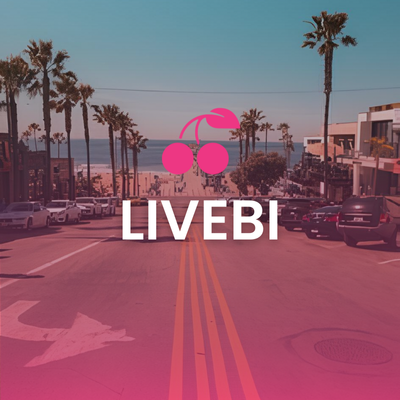
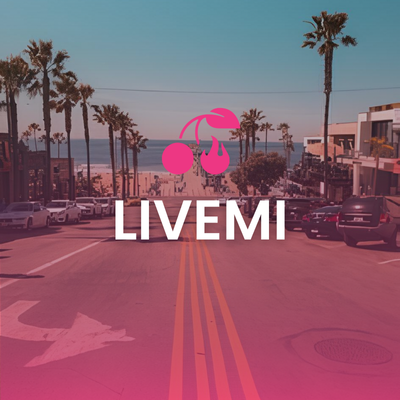
06/02/2025 up

diff --git a/index.html b/index.html
@@ -2,8 +2,8 @@
 <html lang="pt-BR">
 
 <head>
-  <title>Livebi Corporation | Onde o impossível é questão de detalhe!</title>
-  <link rel="icon" href="./img/logo-me.png" type="image/x-icon">
+  <title>Livemi | Onde o impossível é questão de detalhe!</title>
+  <link rel="icon" href="./img/livemiLogo.png" type="image/x-icon">
   <meta charset="UTF-8">
   <meta http-equiv="X-UA-Compatible" content="IE=edge">
   <meta name="viewport" content="width=device-width, initial-scale=1.0">
@@ -20,20 +20,26 @@
       <header>
         <div class="container">
           <div class="logo" id="link-home">
-            <img src="./img/logo-me.png" alt="Logo">
-            <h3>Livebi</h3>
+            <img src="./img/livemiLogo.png" alt="Logo">
+            <h3>Livemi</h3>
           </div>
 
           <div class="links">
             <ul>
-              <li><a href="#" id="link-investor">Seja um Investidor</a></li>
+              <!-- <li><a href="#" id="link-investor">Seja um Investidor</a></li> -->
               <li><a href="#" id="link-about">Sobre</a></li>
               <li><a href="#" id="link-contact">Contato</a></li>
             </ul>
           </div>
 
           <div class="header-menu">
-            <i class="fab fa-instagram"></i>
+            <a 
+              href="https://www.instagram.com/livemibrasil?igsh=MTY3eDdibW1obDhkcg==" 
+              target="_blank"
+              style="color: inherit; text-decoration: none;"
+            >
+              <i class="fab fa-instagram"></i>
+            </a>
             <div class="overlay"></div>
             <div class="hamburger-menu">
               <div class="bar"></div>
@@ -54,7 +60,7 @@
 
             <div class="card next--card">
               <div class="card__image">
-                <img src="img/img2.png" alt="">
+                <img src="img/img5.png" alt="">
               </div>
             </div>
 
@@ -83,21 +89,21 @@
         <div class="infoList">
           <div class="info__wrapper">
             <div class="info current--info">
-              <h1 class="text name">Livebi Home</h1>
+              <h1 class="text name">Livemi</h1>
               <div></div>
-              <p class="text description">Encontre a moradia ideal e conexões reais – divida custos, alugue espaços e viva novas experiências com segurança e praticidade.</p>
+              <p class="text description">Dê match com quem combina com você – seja para um encontro especial, uma amizade ou apenas se jogar na diversão!</p>
             </div>
 
             <div class="info next--info">
-              <h1 class="text name">Livebi Flame</h1>
+              <h1 class="text name">Algorithm</h1>
               <div></div>
-              <p class="text description">Dê match com quem combina com você – seja para um encontro especial, uma amizade ou apenas se jogar na diversão!</p>
+              <p class="text description">Algoritmos complexos para ajudar a você encontrar a parceira ou parceiro ideal, seja para um date ou fazer novas amizades!</p>
             </div>
 
             <div class="info previous--info">
               <h1 class="text name">Lyvia AI</h1>
               <div></div>
-              <p class="text description">Uma inteligência artificial avançada, criada para potencializar interações, resolver problemas e transformar ideias em realidade.</p>
+              <p class="text description">Uma inteligência artificial avançada integrada ao sistema da Livemi, para potencializar interações, resolver problemas e transformar ideias em realidade.</p>
             </div>
           </div>
         </div>
@@ -122,13 +128,13 @@
         </div>
       </div>
 
-      <div class="pages-nav" id="investor-page" style="display: none;">
+      <!-- <div class="pages-nav" id="investor-page" style="display: none;">
         <div class="main-content-nav">
-          <div class="title-nav">INVESTIR NA LIVEBI?</div>
+          <div class="title-nav">INVESTIR NA LIVEMI?</div>
           <div class="subtitle-nav">POR QUE?</div>
           <div class="description-nav">
             Apresentamos a você o futuro da interação social digital com os apps <br>
-            Livebi Flame, Livebi Home e Lyvia AI. Cada um desses <br>
+            Livemi e Lyvia AI. Cada um desses <br>
             aplicativos foi desenvolvido com o propósito de conectar<br>
             pessoas, compartilhar experiências e tornar <br>
             a vida mais colaborativa e divertida. <br>
@@ -136,7 +142,7 @@
 
           <div class="container-investor">
             <div class="content-investor">
-              <h1 class="title-investor">LIVEBI: Transformando o Futuro com Inovação</h1>
+              <h1 class="title-investor">LIVEMI: Transformando o Futuro com Inovação</h1>
 
               <div class="subtitle-investor">Se você, investidor, ao ler "Seja um Investidor", sentiu um certo receio,
                 como é natural diante de qualquer oportunidade de investimento, até o final deste texto, eu garanto que
@@ -144,18 +150,18 @@
                 investir cada átomo do meu ser no sucesso dessa startup.</div>
 
               <p class="description-investor">
-                Apresento a vocês a <strong>LIVEBI</strong>, uma startup com a missão de desenvolver soluções
+                Apresento a vocês a <strong>LIVEMI</strong>, uma startup com a missão de desenvolver soluções
                 tecnológicas inovadoras que impactem positivamente a sociedade. Nosso foco é transformar áreas pouco
                 exploradas ou trazer melhorias significativas a soluções que já existem, mas que ainda deixam a desejar.
                 Agora, vamos dar um passo à frente e apresentar os primeiros frutos dessa jornada: os aplicativos móveis
-                <strong>LIVEBI HOME</strong>, <strong>LIVEBI FLAME</strong> e <strong>LYVIA AI</strong> (em breve).
+                <strong>LIVEMI</strong> e <strong>LYVIA AI</strong> (em breve).
               </p>
 
               <h1 class="title-investor">O que nos torna diferentes?</h1>
 
-              <div class="subtitle-investor">O que torna a <strong>LIVEBI</strong> uma oportunidade única de
+              <div class="subtitle-investor">O que torna a <strong>LIVEMI</strong> uma oportunidade única de
                 investimento? Por que estamos focando neste segmento? E, mais importante, por que você deve investir na
-                <strong>LIVEBI</strong>?
+                <strong>LIVEMI</strong>?
               </div>
 
               <p class="description-investor">
@@ -174,20 +180,12 @@
               </p>
 
               <p class="description-investor">
-                <strong>LIVEBI HOME</strong> é um produto único no Brasil e na América do Sul, sem concorrentes diretos
-                no mercado. Estamos não apenas criando um aplicativo, mas estabelecendo uma nova categoria. Isso nos
-                coloca na posição de pioneiros, com um enorme potencial de mercado. Nossa estratégia envolve não apenas
-                o lançamento, mas também a patenteação da tecnologia e do modelo de negócios, o que nos garante
-                exclusividade e vantagem competitiva no futuro próximo.
-              </p>
-
-              <p class="description-investor">
-                <strong>LIVEBI FLAME</strong>, apesar de ter concorrentes, está se destacando por implementar uma
+                <strong>LIVEMI</strong>, apesar de ter concorrentes, está se destacando por implementar uma
                 tecnologia emergente no mercado: Ultra-Wideband (UWB). Trata-se de uma tecnologia de comunicação sem fio
                 que transmite dados com alta precisão e em distâncias curtas, algo revolucionário para o mercado de
                 smartphones e ainda pouco explorado. Além disso, estamos agregando funcionalidades inovadoras como
-                stories, pesquisa de perfil e integração com inteligência artificial, proporcionando uma experiência
-                única ao usuário.
+                macth por grupo(que é um dos nossos principais diferênciais), pesquisa de perfil e integração com inteligência artificial, 
+                proporcionando uma experiência única ao usuário.
               </p>
 
               <p class="description-investor">
@@ -207,23 +205,23 @@
                 tornando realidade.
               </p>
 
-              <h1 class="title-investor">Por que investir na <strong>LIVEBI</strong>?</h1>
+              <h1 class="title-investor">Por que investir na <strong>LIVEMI</strong>?</h1>
 
               <p class="description-investor">
                 Agora, respondendo diretamente à sua pergunta, investidor: por que você deve investir na
-                <strong>LIVEBI</strong>?
+                <strong>LIVEMI</strong>?
               </p>
 
               <p class="description-investor">
                 Talvez você não deva, não posso prometer que esse será um investimento seguro e sem riscos — afinal,
-                nenhum grande investimento é. Mas o que eu posso te garantir é que a <strong>LIVEBI</strong> segue um
+                nenhum grande investimento é. Mas o que eu posso te garantir é que a <strong>LIVEMI</strong> segue um
                 modelo de negócios comprovado e escalável: Usaremos o modelo Subscription-based (Assinatura Recorrente),
                 que é o modelo que tem gerado os maiores lucros para startups em todo o mundo. Esse modelo cria uma base
                 de receita sólida e previsível, proporcionando crescimento contínuo e escalabilidade.
               </p>
 
               <p class="description-investor">
-                Correr riscos é necessário. Eu estou assumindo o risco de você não investir na <strong>LIVEBI</strong>,
+                Correr riscos é necessário. Eu estou assumindo o risco de você não investir na <strong>LIVEMI</strong>,
                 mas se você tomar a decisão de entrar nessa jornada conosco, juntos vamos levar o Brasil a um novo
                 patamar no desenvolvimento tecnológico e, mais importante, transformaremos a vida das pessoas com
                 inovações que realmente importam.
@@ -241,17 +239,7 @@
               </blockquote>
 
               <h1 class="title-investor" style="margin-bottom: 30px;">
-                *LIVEBI HOME*
-              </h1>
-
-              <div class="image-separator-investor">
-                <img src="img/separate.png" alt="">
-              </div>
-
-              <h1 class="title-investor">Dados Teste:</h1>
-
-              <h1 class="title-investor" style="margin-bottom: 30px;">
-                *LIVEBI FLAME*
+                *LIVEMI*
               </h1>
 
               <div class="image-separator-investor">
@@ -310,27 +298,27 @@
 
         <div class="footer-nav">
           <div class="social-links-nav">
-            <div class="social-icon-nav"><a href="https://www.google.com" target="_blank"
+            <div class="social-icon-nav"><a href="mailto:livemi.corp@gmail.com?subject=ASSUNTO&body=MENSAGEM" target="_blank"
                 style="color: inherit; text-decoration: none;">E-mail</a></div>
-            <div class="social-icon-nav"><a href="https://www.google.com" target="_blank"
+            <div class="social-icon-nav"><a href="https://wa.me/+5548997890787" target="_blank"
                 style="color: inherit; text-decoration: none;">Whatsapp</a></div>
-            <div class="social-icon-nav"><a href="https://www.instagram.com/livebi.corp?igsh=MTIwMWdnZm81cWgyaQ==" target="_blank"
+            <div class="social-icon-nav"><a href="https://www.instagram.com/livemibrasil?igsh=MTY3eDdibW1obDhkcg==" target="_blank"
                 style="color: inherit; text-decoration: none;">Instagram</a></div>
           </div>
           <div class="footer-text-nav">
-            © 2025 Livebi Corporation -
+            © 2025 Livemi LTDA -
             Todos os direitos reservados - Aviso legal - Política de privacidade - Gestão de cookies
           </div>
           <div class="footer-text-nav">Desenvolvido e projetado por CEO Eduardo Borges</div>
         </div>
-      </div>
+      </div> -->
 
       <div class="pages-nav" id="about-page" style="display: none;">
         <div class="main-content-nav">
           <div class="title-nav">SOBRE</div>
           <div class="subtitle-nav">PRECISA DE INFORMAÇÕES?</div>
           <div class="description-nav">
-            A Livebi Corporation inspira-se em um mundo de inovação <br>
+            A Livemi inspira-se em um mundo de inovação <br>
             em que o fundador se obrigou a desenvolver o futuro do <br>
             mundo digital visando uma civilização moderna
           </div>
@@ -398,10 +386,10 @@
                   Acredito que você está exatamente onde deveria estar. Esse pensamento tem sido uma força motivadora na
                   minha busca por algo grandioso. No dia 12 de janeiro de 2025, tomei a decisão de criar uma startup,
                   após anos de reflexão e crescimento pessoal e profissional. Foi o momento em que decidi dar o primeiro
-                  passo em direção a esse sonho. E assim nasceu a Livebi.
+                  passo em direção a esse sonho. E assim nasceu a Livemi.
                   Nossa missão é integrar o que há de mais inovador no mercado com a geração Z. A inovação é o que nos
                   impulsiona. Vivemos em um mundo onde a palavra "união" tem perdido seu verdadeiro significado, e a
-                  Livebi surge justamente para restaurá-la.
+                  Livemi surge justamente para restaurá-la.
                   Nossa proposta é unir diferentes universos, criar conexões reais e dar protagonismo às pessoas. E o
                   verdadeiro protagonista será você.
                   <br><em>By: Eduardo Borges</em>
@@ -423,15 +411,15 @@
 
         <div class="footer-nav">
           <div class="social-links-nav">
-            <div class="social-icon-nav"><a href="https://www.google.com" target="_blank"
+            <div class="social-icon-nav"><a href="mailto:livemi.corp@gmail.com?subject=ASSUNTO&body=MENSAGEM" target="_blank"
                 style="color: inherit; text-decoration: none;">E-mail</a></div>
-            <div class="social-icon-nav"><a href="https://www.google.com" target="_blank"
+            <div class="social-icon-nav"><a href="https://wa.me/+5548997890787" target="_blank"
                 style="color: inherit; text-decoration: none;">Whatsapp</a></div>
-            <div class="social-icon-nav"><a href="https://www.instagram.com/livebi.corp?igsh=MTIwMWdnZm81cWgyaQ==" target="_blank"
+            <div class="social-icon-nav"><a href="https://www.instagram.com/livemibrasil?igsh=MTY3eDdibW1obDhkcg==" target="_blank"
                 style="color: inherit; text-decoration: none;">Instagram</a></div>
           </div>
           <div class="footer-text-nav">
-            © 2025 Livebi Corporation -
+            © 2025 Livemi LTDA -
             Todos os direitos reservados - Aviso legal - Política de privacidade - Gestão de cookies
           </div>
           <div class="footer-text-nav">Desenvolvido e projetado por CEO Eduardo Borges</div>
@@ -443,29 +431,28 @@
           <div class="title-nav">CONTATO</div>
           <div class="subtitle-nav">PRECISA DE INFORMAÇÕES?</div>
           <div class="description-nav">
-            Se você deseja ser um investidor ou outra <br>
+            Se você tem alguma dúvida ou outra <br>
             necessidade, não hesite em <br>
             nos contatar.
           </div>
 
-
           <div class="container-about">
             <div class="fone-contact">+55 41 99789-0787 <i class="fab fa-whatsapp"></i></div>
-            <div class="email-contact">admin@livebicorp.com</div>
+            <div class="email-contact">livemi.corp@gmail.com</div>
           </div>
         </div>
 
         <div class="footer-nav">
           <div class="social-links-nav">
-            <div class="social-icon-nav"><a href="https://www.google.com" target="_blank"
+            <div class="social-icon-nav"><a href="mailto:livemi.corp@gmail.com?subject=ASSUNTO&body=MENSAGEM" target="_blank"
                 style="color: inherit; text-decoration: none;">E-mail</a></div>
-            <div class="social-icon-nav"><a href="https://www.google.com" target="_blank"
+            <div class="social-icon-nav"><a href="https://wa.me/+5548997890787" target="_blank"
                 style="color: inherit; text-decoration: none;">Whatsapp</a></div>
-            <div class="social-icon-nav"><a href="https://www.instagram.com/livebi.corp?igsh=MTIwMWdnZm81cWgyaQ==" target="_blank"
+            <div class="social-icon-nav"><a href="https://www.instagram.com/livemibrasil?igsh=MTY3eDdibW1obDhkcg==" target="_blank"
                 style="color: inherit; text-decoration: none;">Instagram</a></div>
           </div>
           <div class="footer-text-nav">
-            © 2025 Livebi Corporation -
+            © 2025 Livemi LTDA -
             Todos os direitos reservados - Aviso legal - Política de privacidade - Gestão de cookies
           </div>
           <div class="footer-text-nav">Desenvolvido e projetado por CEO Eduardo Borges</div>

diff --git a/app.js b/app.js
@@ -53,7 +53,7 @@ events();
 // --------------------------------------------------
 
 function changePage(page) {
-  const pages = ['home-page', 'about-page', 'contact-page', 'investor-page'];
+  const pages = ['home-page', 'about-page', 'contact-page'/*, 'investor-page' */];
   const header = document.querySelector('header');
   const shape = document.querySelector('.shape');
 
@@ -83,10 +83,10 @@ document.getElementById('link-home').addEventListener('click', (event) => {
   changePage('home-page');
 });
 
-document.getElementById('link-investor').addEventListener('click', (event) => {
-  event.preventDefault();
-  changePage('investor-page');
-});
+// document.getElementById('link-investor').addEventListener('click', (event) => {
+//   event.preventDefault();
+//   changePage('investor-page');
+// });
 
 document.getElementById('link-about').addEventListener('click', (event) => {
   event.preventDefault();
